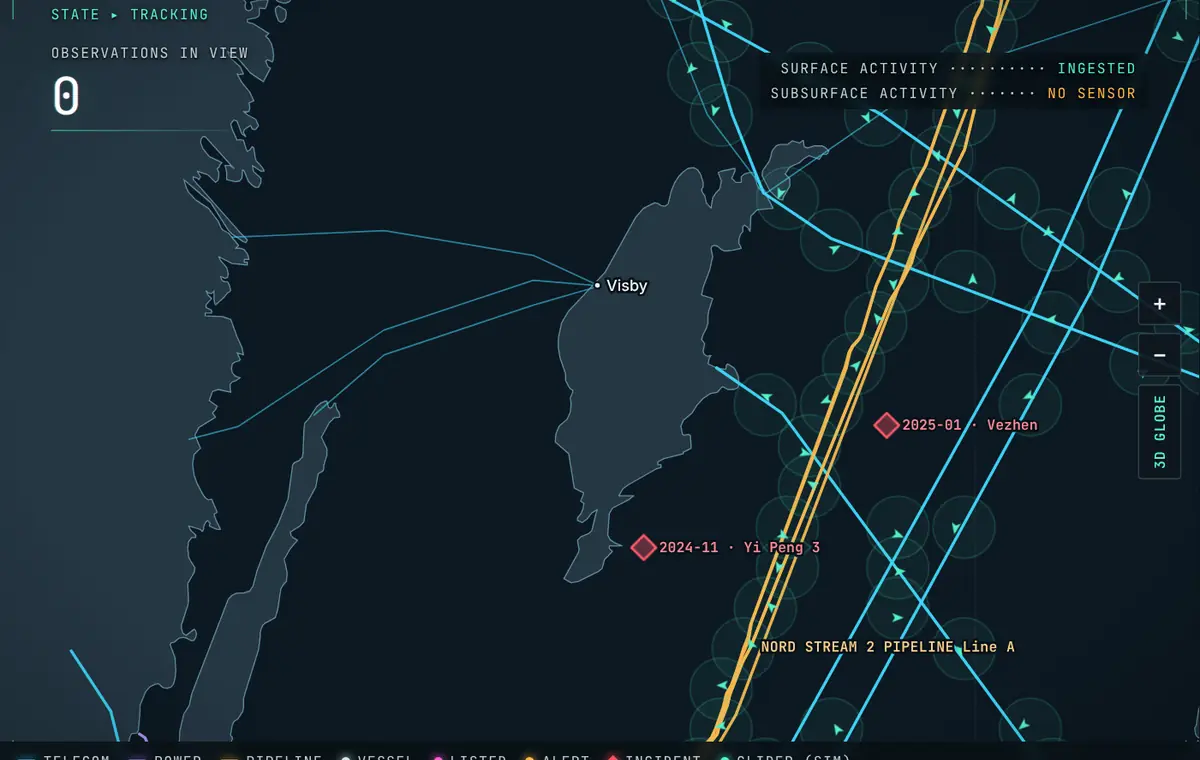
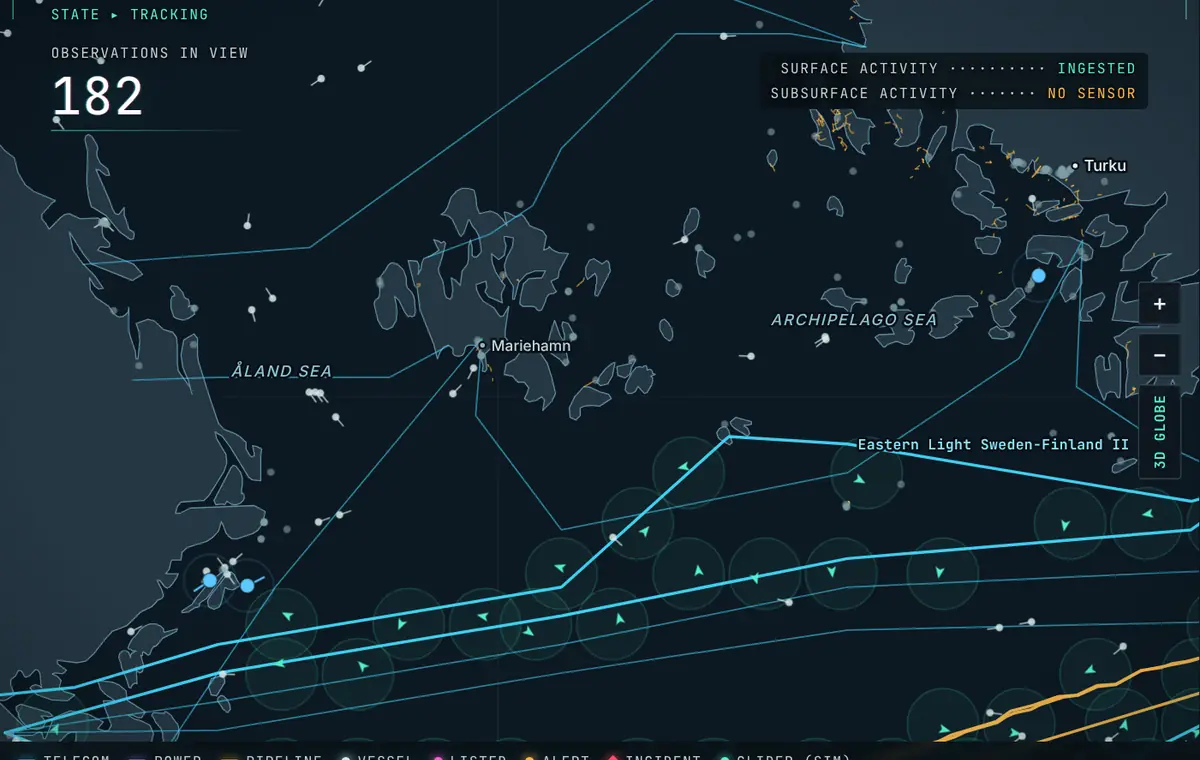
Clarity-style landing and How-it-works redesign; rich GitHub README with screenshots and intro GIF
- Landing: full-width condensed SEABED wordmark, mono subtitle, greyscale globe with coordinate tag,
  red-orange stats row, left tick ruler; self-hosted Archivo condensed + IBM Plex Mono (OFL)
- How it works: METHOD hero, numbered accordion with live dashboard captures
- README: hero, intro GIF, screenshot gallery, signals table, mermaid architecture, data sources, limits
- web/scripts/readme-shots.cjs regenerates every README image from a running server

Claude-Session: https://claude.ai/code/session_01QJXv4dQVcK9Y1CKwdFYzkr

Changed region(s): [[0.0, 0.0, 1.0, 0.9987], [0.8633, 0.9684, 0.8942, 0.9987], [0.4625, 0.0605, 0.4933, 0.0908]]

diff --git a/web/src/how.css b/web/src/how.css
@@ -167,10 +167,10 @@ main > section { padding-left: clamp(24px, 5.5vw, 108px); padding-right: clamp(2
 /* hero: full-width mono line + giant condensed word bleeding off the bottom */
 .h-hero { position: relative; height: min(78vh, 760px); min-height: 420px; padding: 0 !important; overflow: hidden; border-bottom: 0;
   background: radial-gradient(60% 70% at 72% 18%, rgba(255,255,255,.07), transparent 70%); }
-.h-sub { position: absolute; left: clamp(14px, 2.2vw, 40px); right: clamp(14px, 2.2vw, 40px); bottom: calc(26vw * .76 + 1.6vw); white-space: nowrap; overflow: hidden;
-  font: 300 3.9vw/1 var(--mono); letter-spacing: .06em; text-transform: uppercase; color: #fff; }
-.h-word { position: absolute; left: -0.02em; bottom: -0.135em; margin: 0; line-height: .8; white-space: nowrap; color: #fff;
-  font-family: var(--display); font-weight: 900; font-stretch: 62%; font-variation-settings: 'wdth' 62, 'wght' 900; font-size: 30.5vw; letter-spacing: -.012em; text-transform: uppercase; }
+.h-sub { position: absolute; left: clamp(14px, 2.2vw, 40px); right: clamp(14px, 2.2vw, 40px); bottom: calc(min(30.5vw, 84vh) * .7 + 1.2vw); white-space: nowrap; overflow: hidden;
+  font: 300 4.85vw/1 var(--mono); letter-spacing: .06em; text-transform: uppercase; color: #fff; }
+.h-hero .h-word { position: absolute; left: -0.02em; bottom: -0.135em; margin: 0; line-height: .8; white-space: nowrap; color: #fff;
+  font-family: var(--display); font-weight: 900; font-stretch: 62%; font-variation-settings: 'wdth' 62, 'wght' 900; font-size: min(30.5vw, 84vh); letter-spacing: -.012em; text-transform: uppercase; }
 .h-word > span { display: inline-block; overflow: hidden; vertical-align: bottom; padding-top: .04em; }
 .h-word > span > span { display: inline-block; animation: hUp .95s cubic-bezier(.2,.75,.12,1) both; }
 .h-word > span:nth-child(2) > span { animation-delay: .06s; } .h-word > span:nth-child(3) > span { animation-delay: .12s; }

diff --git a/web/index.html b/web/index.html
@@ -169,7 +169,9 @@
         sub.style.top = (top - subH - Math.max(10, fs * 0.05)) + 'px';
         var sTop = top - subH - Math.max(10, fs * 0.05) - stats.getBoundingClientRect().height - (mob ? 22 : 34);
         stats.style.top = sTop + 'px';
-        if (mob) col.style.top = Math.max(76, sTop - col.getBoundingClientRect().height - 26) + 'px';
+        var colH = col.getBoundingClientRect().height;
+        if (mob) col.style.top = Math.max(76, sTop - colH - 26) + 'px';
+        else { col.style.top = ''; var cTop = col.getBoundingClientRect().top; if (cTop + colH + 40 > sTop) col.style.top = Math.max(88, sTop - colH - 40) + 'px'; }
       }
       fit(); addEventListener('resize', fit);
       if (document.fonts) { document.fonts.load('900 100px "BSW Display"').then(fit); document.fonts.ready.then(fit); }

diff --git a/README.md b/README.md
@@ -1,61 +1,190 @@
+<p align="center">
+  <img src="docs/readme/hero.webp" alt="Baltic Seabed Watch landing screen: a huge SEABED wordmark over a greyscale globe with live Baltic ship and cable data" width="900">
+</p>
+
 # Baltic Seabed Watch
 
-A live map of the Baltic Sea: every ship moving right now, and the cables and pipelines on the seabed beneath them.
-When a ship loiters, slows sharply or goes silent right over a cable, it gets flagged, and next to every flag the
-site explains why it's probably innocent. The last layer shows how a few hundred autonomous underwater gliders could
-listen below the surface and cover the gaps that ship tracking misses.
+**A live watch over the Baltic's undersea cables and pipelines, built only from public data, that tells you how weak every signal is.**
 
-![Baltic Seabed Watch](docs/screenshots/desktop.png)
+[![CI](https://github.com/ravjothbrar/baltic-seabed/actions/workflows/ci.yml/badge.svg)](https://github.com/ravjothbrar/baltic-seabed/actions/workflows/ci.yml)
+[![Pages](https://github.com/ravjothbrar/baltic-seabed/actions/workflows/pages.yml/badge.svg)](https://github.com/ravjothbrar/baltic-seabed/actions/workflows/pages.yml)
+![Data: public](https://img.shields.io/badge/data-100%25%20public-53f0c9)
+![Keys in the browser: none](https://img.shields.io/badge/keys%20in%20the%20browser-none-lightgrey)
 
-*Independent project by Ravjoth Brar. Public data only. Not affiliated with Helsing.*
+### → [Open the live map: ravjothbrar.com/baltic-seabed](https://ravjothbrar.com/baltic-seabed/)
 
-## What's in it
-| Layer | Source | Notes |
+*Works on laptop, desktop and phone. Press any key on the intro to skip straight to the map.*
+
+<p align="center">
+  <img src="docs/readme/intro.gif" alt="The intro: a globe centred on the Baltic swoops down into the live flat map" width="760">
+</p>
+
+---
+
+## What is this?
+
+Since 2022, ships have been accused of damaging Baltic undersea cables and pipelines again and again: Balticconnector,
+Estlink 2, C-Lion1 and more. Baltic Seabed Watch shows the whole picture live:
+
+- every ship moving right now;
+- the telecom cables, power links and gas pipelines on the seabed beneath them;
+- vessels on sanctions and shadow-fleet lists;
+- a sourced log of every past incident and **how each case actually ended**.
+
+When a ship loiters, slows sharply or goes silent over a cable, it gets flagged. Next to every flag sits a panel called
+**"What you shouldn't conclude"**, listing the ordinary reasons the same pattern appears: weather, a ship waiting for
+orders, a port nearby, receiver coverage, the ship's type.
+
+## Why?
+
+Because surface data alone has never settled one of these cases. Eagle S was found with seabed drag marks, yet a district
+court dismissed the case. Yi Peng 3 ended inconclusive, and Vezhen was ruled an accident. AIS, the system ships use to
+broadcast their position, is self-reported, can be switched off, and sees nothing below the waterline.
+
+So the last layer asks the obvious next question: **what would persistent underwater sensing add?** A simulation places
+a few hundred autonomous gliders along the cable corridors, weighted by cable length, live traffic and real seabed depth,
+and shows how much of the network one operator could keep under watch.
+
+## A tour of the interface
+
+<table>
+  <tr>
+    <td width="50%"><img src="docs/readme/dashboard.webp" alt="Dashboard: sensor grid, live alert stream and the Baltic map"></td>
+    <td width="50%"><img src="docs/readme/alert-dossier.webp" alt="An alert with its vessel dossier and the 'What you shouldn't conclude' panel"></td>
+  </tr>
+  <tr>
+    <td><b>The live picture.</b> About 750 ships, 580+ cable and pipeline lines, sanctions matches and a calm, Crucix-style dashboard. Wheel or pinch to zoom, from the whole world down to a single anchorage.</td>
+    <td><b>Every alert explains itself.</b> Open one to see the ship's dossier, its track, each signal's evidence, and why it may be nothing.</td>
+  </tr>
+  <tr>
+    <td><img src="docs/readme/gulf-of-finland.webp" alt="Zoomed into the Gulf of Finland: Helsinki, Tallinn, cables and listed tankers"></td>
+    <td><img src="docs/readme/world.webp" alt="Zoomed out to the whole world"></td>
+  </tr>
+  <tr>
+    <td><b>Gulf of Finland.</b> Where Estlink 2, Balticconnector and most of the incidents sit, and where listed tankers wait for orders.</td>
+    <td><b>From anchorage to planet.</b> A Mercator map with readable labels at every zoom level, plus a 3D globe mode.</td>
+  </tr>
+  <tr>
+    <td><img src="docs/readme/daily-brief.webp" alt="The daily brief overlay"></td>
+    <td><img src="docs/readme/how-it-works.webp" alt="The How it works page"></td>
+  </tr>
+  <tr>
+    <td><b>Daily brief.</b> A one-page summary generated every morning by the same engine, with a 14-day trend.</td>
+    <td><b>How it works.</b> Architecture, every rule and threshold, the tests, and the limits, written in plain English.</td>
+  </tr>
+</table>
+
+<p align="center"><img src="docs/readme/mobile.webp" alt="The landing screen and the live map on a phone" width="620"></p>
+
+## How it decides what to flag
+
+Seven plain, explainable rules (no black box). Every rule records its evidence **and** the innocent explanations it can't rule out.
+
+| Signal | Fires when | Why it's weak on its own |
 |---|---|---|
-| Live ships | [Fintraffic Digitraffic](https://www.digitraffic.fi/en/marine-traffic/) (keyless), optional [aisstream.io](https://aisstream.io) | Digitraffic covers the northern Baltic; aisstream extends to the whole sea |
-| Telecom cables | [TeleGeography](https://www.submarinecablemap.com) | 44 Baltic systems |
-| Pipelines, power cables, ports | [EMODnet Human Activities](https://emodnet.ec.europa.eu/human-activities) | Power cables: German waters only (Estlink/NordBalt not in open data) |
-| Sanctions & shadow fleet | [OpenSanctions maritime](https://www.opensanctions.org) | CC BY-NC, non-commercial use |
-| Wind & waves | [Open-Meteo](https://open-meteo.com) | Used to *explain away* alerts |
-| Incidents | `web/public/data/incidents.json` | 7 cases 2022–2026, each with sources |
+| `LOITER` | 20+ min at < 3 kn inside a cable corridor, away from port | Ships wait for berths, pilots, orders and weather |
+| `DRAG` | ≥ 2 km and ≥ 10 min of consecutive slow, "under way" fixes along a corridor, well below the ship's usual speed | Engine trouble, ice and traffic schemes look the same |
+| `CROSS_SLOW` | Crosses a named asset at half its usual speed | Common in busy lanes |
+| `DARK` | AIS silent ≥ 45 min near infrastructure **while 5+ nearby ships kept reporting** | Receivers miss messages; transponders fail |
+| `WATCHLIST` | IMO or MMSI on a sanctions or shadow-fleet list | Describes ownership, not what the ship is doing now |
+| `FOC` | Flag registry often used by the shadow fleet | Thousands of legitimate ships fly these flags |
+| `PROFILE` | A tanker or bulk carrier *leaving* a Russian Gulf of Finland port, plus slow movement | Most such ships are simply trading |
 
-## Signals
-Seven plain rules in `server/detect.js`: `LOITER`, `DRAG`, `CROSS_SLOW`, `DARK`, `WATCHLIST`, `FOC`, `PROFILE`.
-Each one carries its evidence and the innocent explanations it can't rule out (weather, port zones, ship type,
-"waiting for orders", receiver coverage). Identity signals, such as a sanctions listing or a flag, never raise an
-alert above WATCH without unusual behaviour as well.
+Identity signals (`WATCHLIST`, `FOC`, `PROFILE`) **never** raise an alert above WATCH on their own. Escalation needs unexplained behaviour.
+Context checks drop the alert level when the wind is at gale force, when the ship is a fishing boat, tug or pilot vessel,
+when it's in a port zone, or when its destination reads "for orders".
 
-## Run locally
+## Architecture
+
+```mermaid
+flowchart LR
+  subgraph Sources["Public sources"]
+    A[Digitraffic AIS<br/>live, keyless]:::src
+    B[aisstream.io<br/>whole Baltic]:::src
+    C[TeleGeography · EMODnet<br/>OpenStreetMap cables]:::src
+    D[OpenSanctions<br/>maritime]:::src
+    E[Open-Meteo<br/>wind & waves]:::src
+    F[EMODnet Bathymetry<br/>GFW satellite radar]:::src
+  end
+  subgraph Actions["GitHub Actions"]
+    H[history.json<br/>every 15 min]
+    BR[brief.json<br/>daily]
+    S[cables · watchlist<br/>weekly]
+  end
+  subgraph Browser["Your browser"]
+    EN[engine.js<br/>tracks · corridor index]
+    R[detect.js<br/>7 rules + context]
+    UI[flat map · alerts<br/>honesty panel · gliders]
+  end
+  A --> EN
+  B --> H --> EN
+  C --> S --> EN
+  D --> S
+  E --> R
+  F --> BR
+  EN --> R --> UI
+  H --> BR --> UI
+  classDef src fill:#0d1a20,stroke:#53f0c9,color:#cfe9e6
+```
+
+- **One engine, two homes.** `server/engine.js` and `detect.js` run unchanged in the browser (on free GitHub Pages) or in a small Node server (optional, for a 48 h archive).
+- **No keys in the browser.** The aisstream key lives only in a GitHub Actions secret; visitors only ever fetch static files and Digitraffic's open API.
+- **Fast.** The intro paints in about 0.25 s and draws the globe's land in about 0.5 s. The heavy 3D library loads only if you ask for 3D mode.
+
+## Data sources
+
+| Layer | Source | Licence / notes |
+|---|---|---|
+| Live ships | [Fintraffic Digitraffic](https://www.digitraffic.fi/en/marine-traffic/) | CC BY 4.0 · northern Baltic, live |
+| Whole-Baltic ships | [aisstream.io](https://aisstream.io) | via 15-min snapshots in Actions |
+| Telecom cables | [TeleGeography Submarine Cable Map](https://www.submarinecablemap.com) | 44 Baltic systems |
+| Pipelines, power cables, ports | [EMODnet Human Activities](https://emodnet.ec.europa.eu/human-activities) | |
+| HVDC links (NordBalt, SwePol, …) | [OpenStreetMap](https://www.openstreetmap.org) via Overpass | ODbL · Estlink still missing from reachable data |
+| Seabed depth | [EMODnet Bathymetry](https://emodnet.ec.europa.eu/en/bathymetry) | glider depth mask |
+| Sanctions & shadow fleet | [OpenSanctions](https://www.opensanctions.org) maritime export | CC BY-NC 4.0 (non-commercial) |
+| Weather | [Open-Meteo](https://open-meteo.com) | used to *explain away* alerts |
+| Satellite radar | [Global Fishing Watch](https://globalfishingwatch.org) SAR detections | CC BY-NC 4.0 · ~5-day lag |
+| Incidents | hand-curated, every field sourced | [`incidents.json`](web/public/data/incidents.json) |
+
+## What it can't see
+
+- **Nothing below the surface.** That's the point of the glider layer, which is labelled **SIMULATION** with every assumption on screen.
+- **Coverage is uneven.** Northern Baltic ships update every 10 s; the rest of the sea refreshes every 15 min.
+- **AIS can lie.** Positions can be spoofed, and transponders can be switched off.
+- **Not evidence.** The false-positive rate on real traffic is still being measured from hand-labelled episodes. The synthetic and regression tests pass, but they only prove the rules do what they say.
+
+## Run it yourself
+
 ```bash
-npm install
+npm install && npm --prefix web install
 ```
+
 ```bash
-npm run build
+npm run build && npm start
 ```
+
+Open http://localhost:8787. Add `?nohero` to skip the intro, or `?tour` to replay the guided tour.
+
 ```bash
-npm start
+npm run eval
 ```
-Open http://localhost:8787. For frontend dev with hot reload, run `npm start` in one terminal and `npm --prefix web run dev` in another, then open :5173. Add `?nohero` to skip the intro and `?tour` to force the tour.
 
-Other commands: `npm run eval` runs the detection tests, `npm run fetch:static` rebuilds the cable layers, and `npm run fetch:watchlist` refreshes the sanctions list.
+That runs the detection test cases and the regression checks. Deployment (free GitHub Pages, or optional Fly.io) is covered in [`.github/workflows`](.github/workflows).
 
-## Deploy
-**Free: GitHub Pages (browser mode).** `.github/workflows/pages.yml` builds the site and deploys it to Pages on every
-push to `main`, and again every 15 minutes. Visitors' browsers poll Digitraffic directly (it allows cross-origin requests and
-needs no key) and run the same `server/engine.js` + `detect.js` locally. Each scheduled run samples about 10 minutes of AIS
-and extends `data/history.json`, so tracks and loiter or slowdown rules work as soon as the page opens.
-One-time setup: Settings → Pages → Source: **GitHub Actions**.
+<details>
+<summary><b>Repository layout</b></summary>
 
-**Optional: Fly.io (server mode, about $3–5 a month).** One always-on Node process. It adds a 48 h SQLite archive (for
-`npm run eval` on real labels), 10-second track resolution and whole-Baltic coverage via an aisstream.io key.
-Run the `deploy-fly` workflow manually (needs `FLY_API_TOKEN`).
-
-The front end detects which mode it's in (`web/src/datasource.js`): if `/api/snapshot` answers, it uses the server.
-Otherwise it runs the engine in the browser.
-
-## Layout
 ```
-server/   engine.js (live picture, shared with browser) · detect.js (rules) · index.js (Node: SSE, SQLite, aisstream)
-web/      Vite + CesiumJS front end (main.js, globe.js, basemap.js, tour.js, datasource.js, glider.worker.js)
-scripts/  data builders     eval/  detection harness     docs/  contract, outreach, screenshots
+server/   engine.js (live picture, shared with the browser) · detect.js (rules) · corridors.js · index.js (optional Node server)
+web/      Vite front end: flatmap.js (d3 map) · heroglobe.js (intro) · globe.js (3D mode) · tour.js · brief.js · how.html
+scripts/  data builders: cables, watchlist, history, brief, satellite radar, bathymetry
+eval/     synthetic cases + regression tests for the rules
+docs/     data contract, screenshots
 ```
+</details>
+
+---
+
+<p align="center">
+  Made by <a href="https://ravjothbrar.com"><b>Ravjoth Brar</b></a> · independent project · public data only · not affiliated with or endorsed by Helsing or any data provider
+</p>
